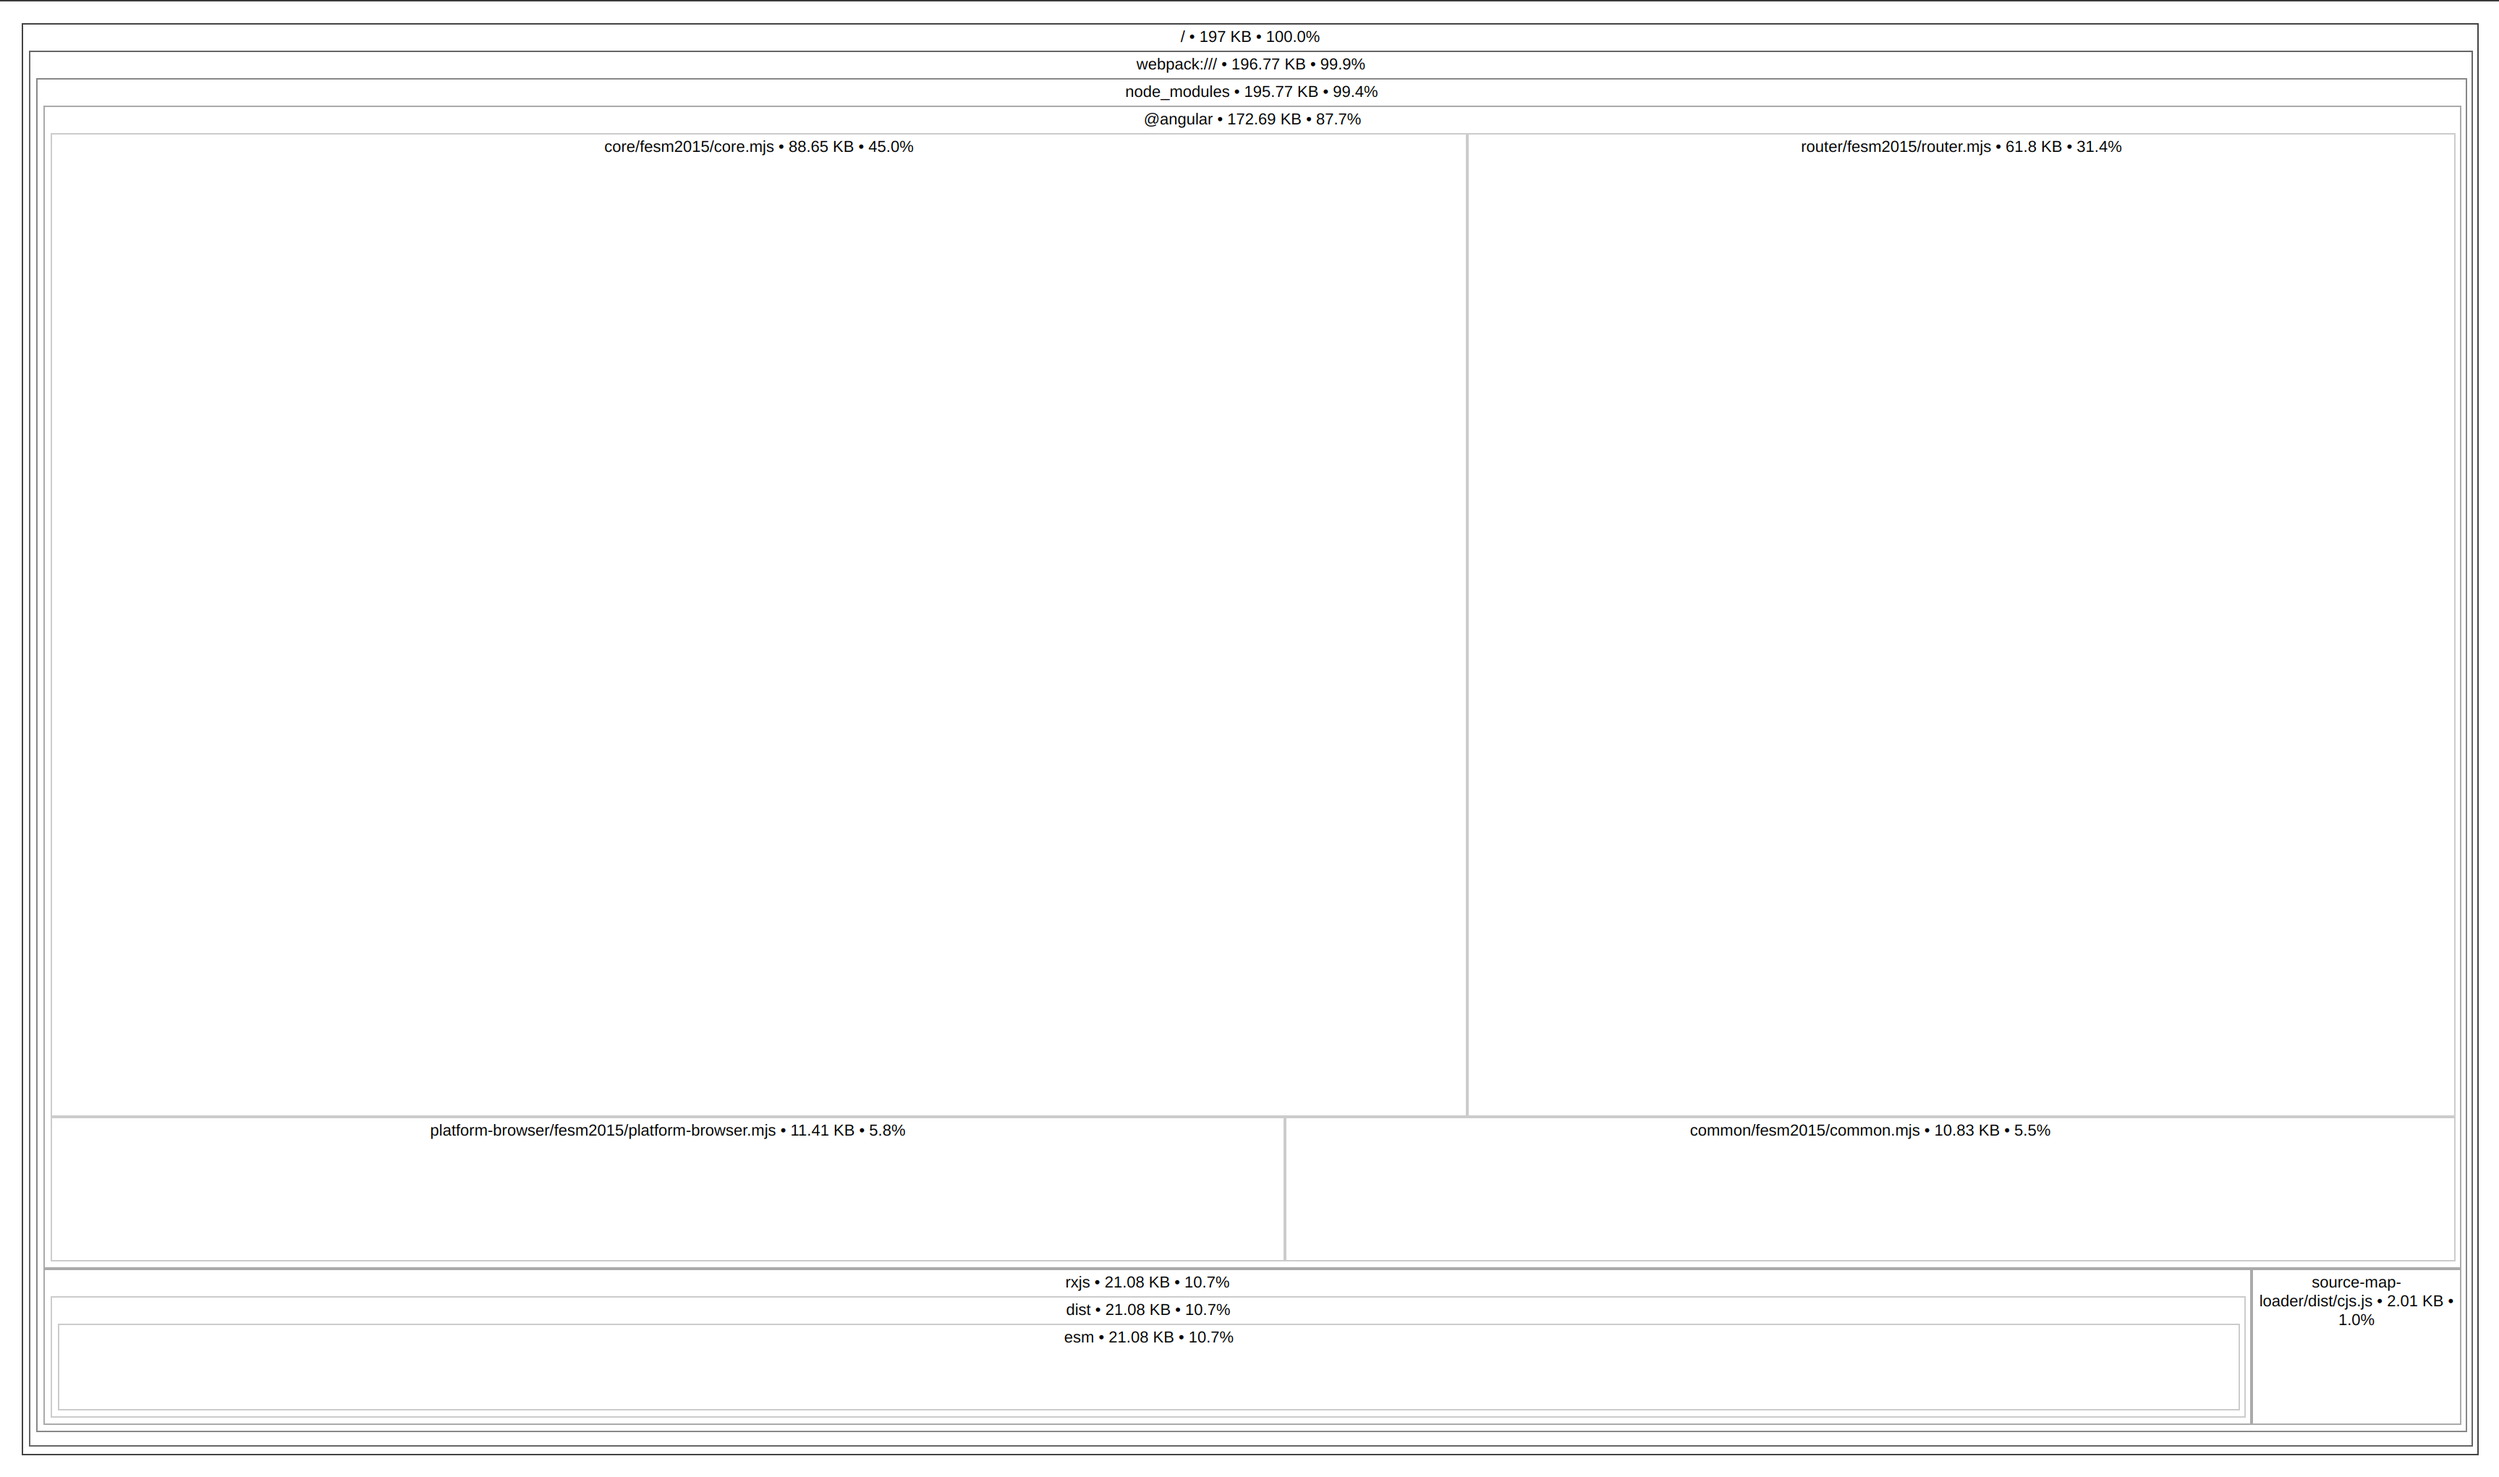
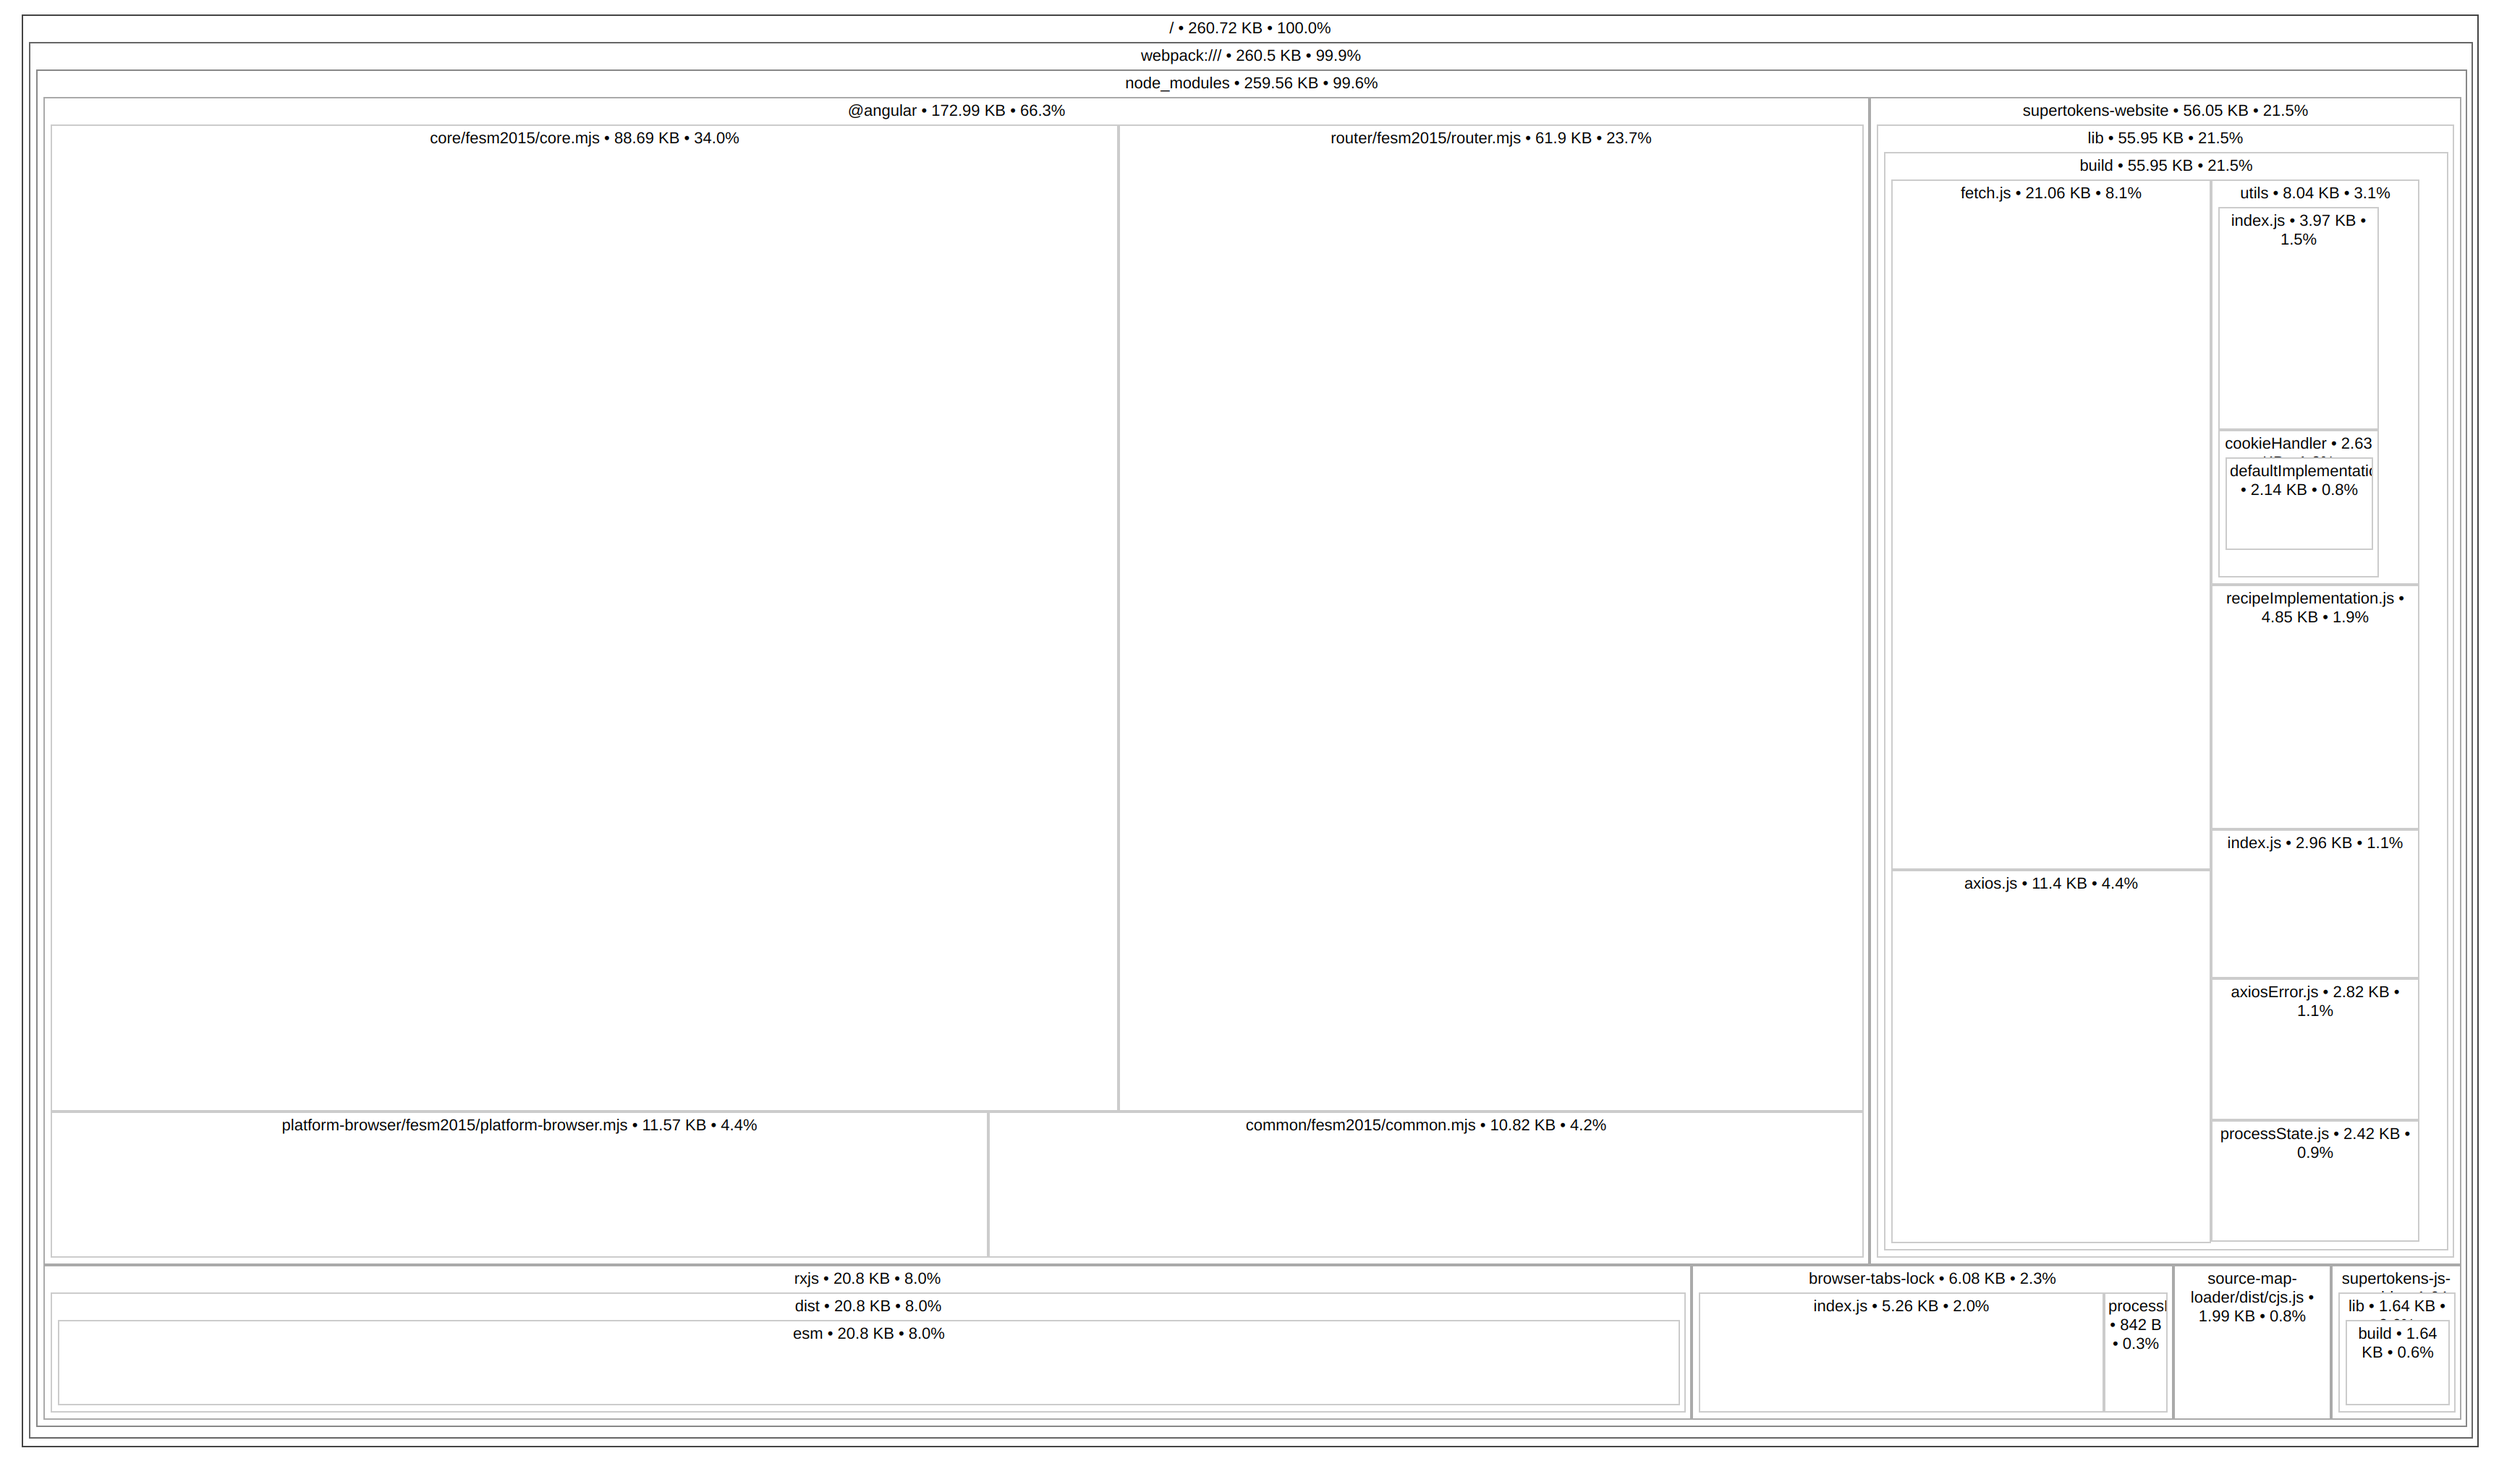
README.md fixs

diff --git a/examples/with-angular-thirdpartyemailpassword/src/app/home/home.component.html b/examples/with-angular-thirdpartyemailpassword/src/app/home/home.component.html
@@ -1,5 +1,5 @@
 <div class="body">
-    <h1>Hello👋</h1>
+    <h1>Hello</h1>
 
     <div *ngIf="session; else elseBlock">
         <span>UserId:</span>

diff --git a/examples/with-angular-thirdpartyemailpassword/README.md b/examples/with-angular-thirdpartyemailpassword/README.md
@@ -11,6 +11,8 @@ This demo app demonstrates the following use cases:
 
 In this demo, whenver we visit an auth related route (`/auth/*` in this case), we will load a React component which will initialize SuperTokens and handle the authentication flow. All other routes will use Angular Components.
 
+In this demo, when our root component loads we will initialize the `supertokens-website` SDK which will be used by our other components for session management. When we visit an auth related route (`/auth/*` in this case), we will load a React component which will initialize the `supertokens-auth-react` SDK and handle the authentication flow.
+
 This project was generated with [Angular CLI](https://github.com/angular/angular-cli) version 13.3.6.
 
 ## Project setup
@@ -31,93 +33,52 @@ npm run start
 
 The app will start on `http://localhost:4200`
 
-## Project structure & Parameters
+## Project structure
+
+### Backend
+
+-   The backend API is in the `server.ts` file.
+
+### Frontend
 
 -   The frontend code is located in the `/src` folder.
--   The backend API is in the `server.ts` file.
+-   Our frontend will have 3 Angular components, a `home`, `auth` and `root` component.
+-   The `home` component will use `supertokens-website` for session management and the `auth` component will use `supertokens-auth-react` for Authentication flows and UI.
+-   Since both the `home` and `auth` (since `supertokens-auth-react` SDK uses `supertokens-website`) depend on `supertokens-website`, we can initialize this library in our root component. This will also reduce the bundle sizes for the `home` and `auth` component.
+-   The `root` component contains our routing logic with refrences to the the `home` and `auth` component modules to enable code splitting.
 
 ## Code splitting and bundle analysis
 
-This example project uses 3 Angular components:
+Since we use refrences to the `home` and `auth` routing components in our routing logic code splitting will be enabled. During the build process Angular will create seperate bundles for the `auth` and `home` components.
 
--   A `root` component which contains the routing for our `auth` and `home` components.
--   A `home` component which uses SuperTokens `supertokens-website` SDK for session management.
--   An `auth` component which uses SuperTokens `supertokens-auth-react` SDK to handle Authentication flows and Login UI
-
-To enable code splitting, we will not be directly importing our home and auth components in the root component, but the routing in the root component will use references to the home and auth component modules. This will tell Angular to create separate bundles for the auth and home components during the build process.
-
-This will decrease the main bundle size and allow us to lazy-load the home and auth component chunks depending on which route we visit.
+This will decrease the main bundle size and allow us to lazy-load the `home` and `auth` component chunks depending on which route we visit.
 
 ### Bundle analysis
 
 If we take a look at the output of the build we will see the following:
 
-![Bundle log](./images/bundle_file_sizes.png)
+![Bundle log](./images/angular_build_output.png)
 
 The files we are interested in are the main bundle and the lazy chunk files.
 
 We can use Angular's source map explorer to take a look at the contents of these files
 
-#### Main bundle
+#### main bundle
 
 Using the source map explorer the main bundle will result in the following output
 
 ![main bundle](./images/main_bundle_source_map.png)
 
-We can see that the main bundle does not contain the home and auth components and their dependencies. This makes sense since those components are now bundled separately.
+We can see that the main bundle contains `supertokens-website` and does not contain the `home` and `auth` components. This makes sense since those components are now bundled separately.
 
-#### Auth bundles
+#### auth bundle
 
-If we take a look at the build output we can see that there are two bundles related to the auth module.
+![auth bundle](./images/auth_bundle_source_map.png)
 
-![auth related bundles](./images/auth_module_build.png)
-
-To understand why this is the case we need to take a look at the source maps of the two chunks
-
-Chunk 1
-
-![auth react module](./images/auth_component_supertokens-auth_react_sourcemap.png)
-
--   We can see that most of size of the first bundle is occupied by the `supertokens-auth-react`, its dependencies and `react-dom`.
-
-Chunk 2
-
-![auth website module](./images/auth_component_supertokens_website_sourcemap.png)
-
--   Most of size of the second bundle is occupied by the `supertokens-website`.
-
--   It makes sense that the `supertokens-website` package is in the auth bundle since `supertokens-auth-react` has a dependency on `supertokens-website`, but the question which arises is **Why is it bundled separately?**
-
-To answer this question we will need to take a look at the home bundle.
+The `auth` bundle contains `supertokens-auth-react`, its dependencies and `react-dom`.
 
 #### Home bundle
 
-The source map for the home bundle will have the following output:
+![home module bundle](./images/home_bundle_source_map.png)
 
-![home module bundle](./images/home_component_build.png)
-
--   We can see the source map does not contain the `supertokens-website` SDK even though it is used in the home component.
-
--   So lets answer the previously raised question. Since both the `home` component and the `auth` component have dependencies on `supertokens-website`, Angular will bundle the libary into its own chunk which will be served for both the home and auth related routes. This is done to prevent duplication of the `supertokens-website` library in both bundles.
-
-We can actually see this behavior by looking at the network traffic when visiting the routes
-
-## Analyzing Network traffic for routes
-
-We will be using Google Chrome's dev tools to inspect network traffic
-
-When visiting the auth component related route the network tab will have the following output:
-
-![auth related route](./images/auth_component_network_log.png)
-
--   We can see the `supertokens-website` related chunk and the `auth` bundle containing `supertokens-auth-react` being retrieved.
-
-When visiting the home component related route the network tab will have the following output:
-
-![home related route](./images/hom_component_network_log.png)
-
--   We can see the `supertokens-website` related chunk and the `home` bundle being retrieved
-
-## Author
-
-Created with :heart: by the folks at supertokens.com.
+The `home` component will not contain `supertokens-website` SDK since it is already present in the main bundle.
